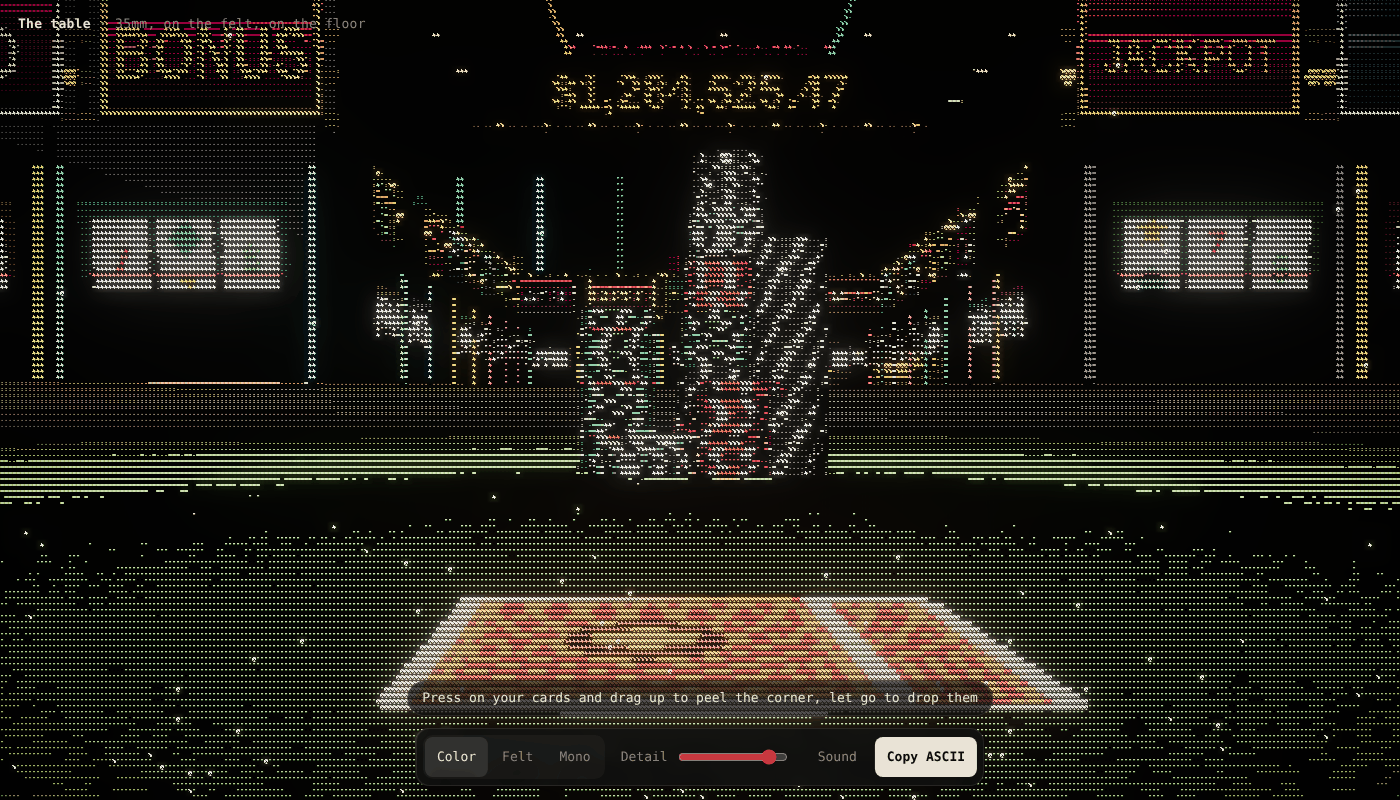
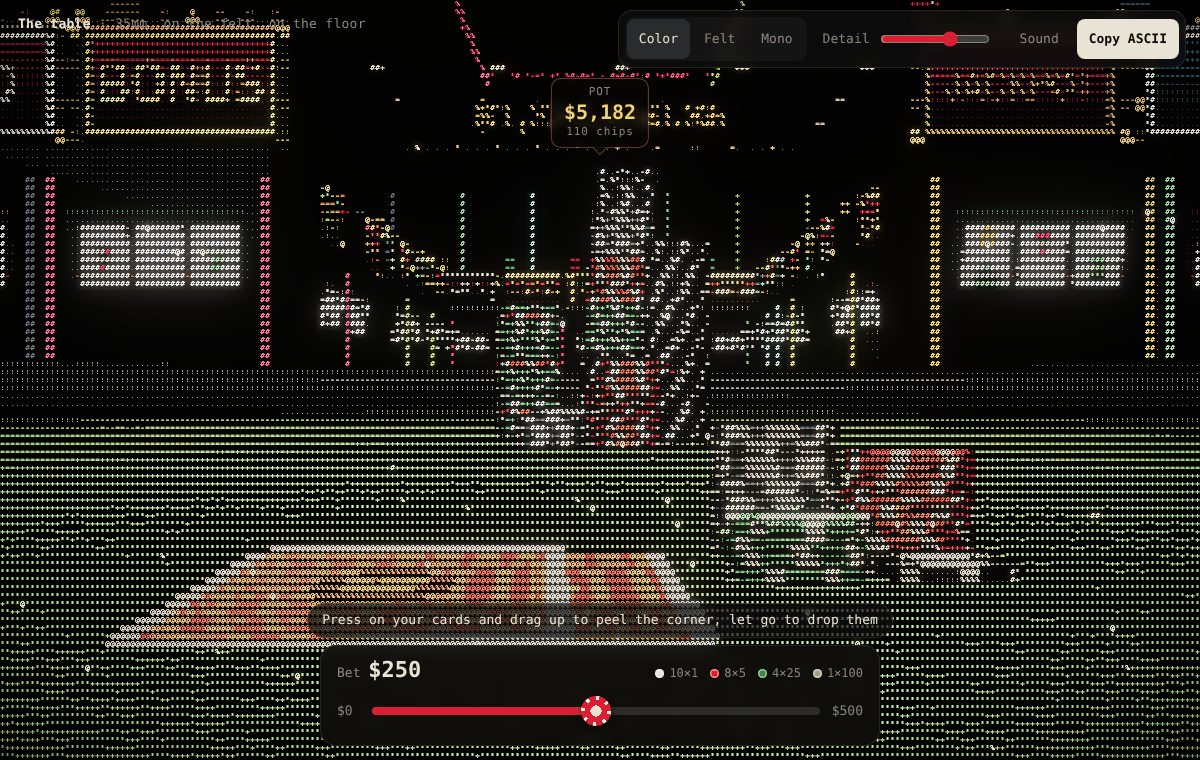
Add pot total and $500 bet slider to the ASCII table
- Pot label over the chips, summed from the chips on the felt
- $500 stack (20 white, 16 red, 8 green, 2 black) beside your cards
  that rebuilds with exact chips as the bet slider moves
- Bet slider at bottom center, $0 to $500, chip-shaped thumb
- README and prompt log updated

Claude-Session: https://claude.ai/code/session_01MVPZKeE2c6NNvpPwPLo1Bg

diff --git a/ascii-table/index.html b/ascii-table/index.html
@@ -15,11 +15,11 @@
 *{box-sizing:border-box;min-width:0}
 html,body{margin:0;height:100%;background:#0a0a0a;color:var(--ink);overflow:hidden;font:500 13px/1.3 "JetBrains Mono",ui-monospace,monospace}
 canvas{display:block;width:100%;height:100%;touch-action:none}
-#hint{position:fixed;left:50%;bottom:calc(max(14px,env(safe-area-inset-bottom)) + 70px);transform:translateX(-50%);padding:8px 14px;border-radius:999px;border:1px solid var(--line);background:rgba(14,14,14,.7);color:var(--ink);white-space:nowrap;pointer-events:none;transition:opacity 1.2s}
+#hint{position:fixed;left:50%;bottom:calc(max(14px,env(safe-area-inset-bottom)) + 108px);transform:translateX(-50%);padding:8px 14px;border-radius:999px;border:1px solid var(--line);background:rgba(14,14,14,.7);color:var(--ink);white-space:nowrap;pointer-events:none;transition:opacity 1.2s}
 #hint.hide{opacity:0}
 .tag{position:fixed;top:16px;left:18px;color:var(--dim);letter-spacing:.02em;pointer-events:none}
 .tag b{color:var(--ink);font-weight:700}
-.bar{position:fixed;left:50%;bottom:max(14px,env(safe-area-inset-bottom));transform:translateX(-50%);display:flex;flex-wrap:wrap;justify-content:center;align-items:center;gap:6px;
+.bar{position:fixed;right:14px;top:10px;display:flex;flex-wrap:wrap;justify-content:center;align-items:center;gap:6px;
   width:max-content;max-width:calc(100% - 20px);padding:6px;border:1px solid var(--line);border-radius:14px;background:rgba(14,14,14,.82);backdrop-filter:blur(8px);-webkit-backdrop-filter:blur(8px)}
 .seg{display:flex;flex-wrap:wrap;gap:2px;padding:2px;border-radius:10px;background:rgba(255,255,255,.04)}
 button{font:inherit;color:var(--dim);background:none;border:0;border-radius:8px;min-height:40px;padding:0 12px;cursor:pointer}
@@ -33,7 +33,31 @@ input[type=range]{width:110px;accent-color:var(--acc)}
 #toast{position:fixed;left:50%;top:16px;transform:translate(-50%,-8px);opacity:0;transition:.25s;padding:8px 14px;border-radius:999px;background:var(--ink);color:#0a0a0a;font-weight:700;pointer-events:none}
 #toast.on{opacity:1;transform:translate(-50%,0)}
 .err{position:fixed;inset:0;display:none;place-items:center;color:var(--dim);font:16px system-ui,sans-serif;text-align:center;padding:24px}
-@media (max-width:600px){.tag{display:none}input[type=range]{width:84px}button{padding:0 9px}}
+/* pot label: floats over the pot */
+#pot{position:fixed;left:0;top:0;pointer-events:none;text-align:center;padding:6px 12px 7px;border-radius:10px;border:1px solid rgba(255,210,63,.35);
+  background:rgba(8,6,4,.72);backdrop-filter:blur(4px);-webkit-backdrop-filter:blur(4px);white-space:nowrap}
+#pot::after{content:"";position:absolute;left:50%;bottom:-6px;width:10px;height:10px;transform:translateX(-50%) rotate(45deg);background:rgba(8,6,4,.72);border-right:1px solid rgba(255,210,63,.35);border-bottom:1px solid rgba(255,210,63,.35)}
+#pot small{display:block;color:var(--dim);font-size:11px;letter-spacing:.08em}
+#potAmt{display:block;color:#ffd23f;font-size:20px;font-weight:700;font-variant-numeric:tabular-nums}
+/* bet panel: bottom middle, the stack on the felt follows it */
+.betp{position:fixed;left:50%;bottom:max(14px,env(safe-area-inset-bottom));transform:translateX(-50%);width:min(560px,calc(100% - 24px));
+  padding:10px 16px 12px;border:1px solid var(--line);border-radius:16px;background:rgba(10,8,6,.8);backdrop-filter:blur(8px);-webkit-backdrop-filter:blur(8px)}
+.betp .top{display:flex;justify-content:space-between;align-items:baseline;gap:12px;margin-bottom:4px}
+.betp .lbl{color:var(--dim)}
+#betAmt{font-size:22px;font-weight:700;color:var(--ink);font-variant-numeric:tabular-nums}
+#betBreak{display:flex;flex-wrap:wrap;gap:4px 12px;justify-content:flex-end;color:var(--dim);font-size:12px}
+#betBreak i{display:inline-block;width:9px;height:9px;border-radius:50%;margin-right:5px;vertical-align:-1px;box-shadow:0 0 0 1.5px rgba(255,255,255,.5) inset}
+.rng{display:flex;align-items:center;gap:12px}
+.rng span{color:var(--dim);font-variant-numeric:tabular-nums;min-width:3ch}
+#bet{flex:1;-webkit-appearance:none;appearance:none;height:44px;background:transparent;margin:0;width:100%;accent-color:#d81e2a}
+#bet::-webkit-slider-runnable-track{height:8px;border-radius:99px;background:linear-gradient(90deg,#d81e2a var(--fill,0%),rgba(255,255,255,.12) var(--fill,0%))}
+#bet::-moz-range-track{height:8px;border-radius:99px;background:linear-gradient(90deg,#d81e2a var(--fill,0%),rgba(255,255,255,.12) var(--fill,0%))}
+#bet::-webkit-slider-thumb{-webkit-appearance:none;width:30px;height:30px;margin-top:-11px;border-radius:50%;cursor:grab;border:0;
+  background:radial-gradient(circle,#f3e6d6 0 26%,#d81e2a 27% 52%,transparent 53%),repeating-conic-gradient(#f4efe4 0 14deg,#d81e2a 14deg 45deg);box-shadow:0 2px 8px rgba(0,0,0,.6)}
+#bet::-moz-range-thumb{width:30px;height:30px;border-radius:50%;cursor:grab;border:0;
+  background:radial-gradient(circle,#f3e6d6 0 26%,#d81e2a 27% 52%,transparent 53%),repeating-conic-gradient(#f4efe4 0 14deg,#d81e2a 14deg 45deg);box-shadow:0 2px 8px rgba(0,0,0,.6)}
+#bet:focus-visible{outline:none}#bet:focus-visible::-webkit-slider-thumb{outline:2px solid #ffd23f;outline-offset:2px}
+@media (max-width:600px){.tag{display:none}#betAmt{font-size:19px}input[type=range]{width:84px}button{padding:0 9px}}
 </style>
 <script type="importmap">{"imports":{"three":"https://cdn.jsdelivr.net/npm/three@0.160.0/build/three.module.js","three/addons/":"https://cdn.jsdelivr.net/npm/three@0.160.0/examples/jsm/"}}</script>
 </head>
@@ -42,6 +66,11 @@ input[type=range]{width:110px;accent-color:var(--acc)}
 <div id="toast" role="status" aria-live="polite"></div>
 <div id="hint">Press on your cards and drag up to peel the corner, let go to drop them</div>
 <div class="err" id="err">Couldn't load the renderer. Reload to try again.</div>
+<div id="pot" aria-live="polite"><small>POT</small><span id="potAmt">$0</span><small id="potChips"></small></div>
+<div class="betp">
+  <div class="top"><div><span class="lbl">Bet </span><span id="betAmt">$0</span></div><div id="betBreak"></div></div>
+  <div class="rng"><span>$0</span><input id="bet" type="range" min="0" max="500" step="1" value="250" aria-label="Bet size"><span>$500</span></div>
+</div>
 <div class="bar">
   <div class="seg" role="group" aria-label="Palette">
     <button data-pal="0" aria-pressed="true">Color</button>
@@ -333,7 +362,7 @@ function gridGeo() {
 }
 const pair = new THREE.Group(), seat = new THREE.Group();
 seat.rotation.y = VIEW_YAW; scene.add(seat);
-pair.position.set(0, 0.0012, PAIR_Z); pair.rotation.y = 0.05; seat.add(pair);
+pair.position.set(-0.12, 0.0012, PAIR_Z); pair.rotation.y = 0.05; seat.add(pair);
 // bottom card first: the King lies on the felt, the Ace rests on top of it, shifted left
 const cards = [[kingTex, OFFSET / 2, 0], [aceTex, -OFFSET / 2, 1]].map(([face, x, layer]) => {
   const geo = gridGeo(), mesh = new THREE.Mesh(geo, [backPeel, peelMat(face)]);
@@ -616,6 +645,127 @@ audio.jackpot = pos => {
   [0, 2, 4, 5, 7].forEach((n, i) => tone(PENTA[n], now + 0.1 + i * 0.12, 0.35, 'square', 0.02, pan));                                   // fanfare
 };
 
+/* ---------- chip values, the pot total, and your $500 bet stack ---------- */
+const DENOM = [1, 5, 25, 100];                       // CHIPS order: white, red, green, black
+const potChips = lists.map(l => l.length);
+const potValue = potChips.reduce((a, n, ci) => a + n * DENOM[ci], 0);
+
+// Your $500: 20 white ($20) + 16 red ($80) + 8 green ($200) + 2 black ($200) = 46 chips
+const INV = [20, 16, 8, 2];
+const INV_TOTAL = INV.reduce((a, n, ci) => a + n * DENOM[ci], 0);
+const INV_CHIPS = INV.reduce((a, n) => a + n, 0);
+// Exact chips for every bet from $0 to $500, worked out once. The chip count follows the bet,
+// so a bigger bet is a taller stack, staying close to a straight line from 0 to 46 chips. A few small dips are
+// unavoidable (with 20 whites, $20 can be 20 chips but $21 can't be more than 17), so it keeps those as rare and small as it can.
+const BET_TABLE = (() => {
+  const combos = [];                                    // every way to make each amount from the $500 inventory
+  for (let b = 0; b <= INV_TOTAL; b++) combos.push([]);
+  for (let k = 0; k <= INV[3]; k++) for (let g = 0; g <= INV[2]; g++) for (let r = 0; r <= INV[1]; r++) for (let w = 0; w <= INV[0]; w++)
+    combos[w + 5 * r + 25 * g + 100 * k].push([w, r, g, k]);
+  const N = INV_CHIPS + 1, INF = 1e9, B = INV_TOTAL;
+  const has = combos.map(cs => { const h = new Uint8Array(N); cs.forEach(c => h[c[0] + c[1] + c[2] + c[3]] = 1); return h; });
+  // dp[b][n]: lowest cost for amounts 0..b ending with n chips at b. Cost = distance from the straight line,
+  // plus a heavy charge for every chip the stack loses when the bet goes up by a dollar.
+  const DROP = 6;
+  const dp = Array.from({ length: B + 1 }, () => new Float64Array(N).fill(INF)), from = Array.from({ length: B + 1 }, () => new Int16Array(N));
+  dp[0][0] = 0;
+  for (let b = 1; b <= B; b++) for (let n = 0; n < N; n++) {
+    if (!has[b][n]) continue;
+    let best = INF, arg = 0;
+    for (let m = 0; m < N; m++) {
+      const c = dp[b - 1][m] + (m > n ? (m - n) * DROP : 0);
+      if (c < best) { best = c; arg = m; }
+    }
+    dp[b][n] = best + Math.abs(n - INV_CHIPS * b / B); from[b][n] = arg;
+  }
+  const counts = new Int16Array(B + 1); counts[B] = INV_CHIPS;
+  for (let b = B; b > 0; b--) counts[b - 1] = from[b][counts[b]];
+  // for each amount, use the mix closest to the one just below it, so stepping $1 changes as few chips as possible
+  const table = [[0, 0, 0, 0]];
+  for (let b = 1; b <= B; b++) {
+    const prev = table[b - 1]; let pick = null, d0 = Infinity;
+    for (const c of combos[b]) {
+      if (c[0] + c[1] + c[2] + c[3] !== counts[b]) continue;
+      const d = c.reduce((a, v, i) => a + Math.abs(v - prev[i]), 0);
+      if (d < d0) { d0 = d; pick = c; }
+    }
+    table.push(pick);
+  }
+  return table;
+})();
+let betCounts = [0, 0, 0, 0];
+const chipsFor = b => BET_TABLE[b];
+
+// 2x2 cluster right beside your cards, on your side of the table, just above the slider on screen.
+// Tall columns at the back so the short ones never hide them from the lens.
+const BET_AT = new V3(0.21, 0, 1.86), BET_SCALE = 0.7;   // drawn a bit small: this close to a lens on the felt, full size towers over the shot
+const COLS = { 0: [-0.084, -0.085], 1: [0.084, -0.085], 2: [-0.084, 0.085], 3: [0.084, 0.085] };   // white, red back; green, black front
+const betGroup = new THREE.Group(); betGroup.position.copy(BET_AT); betGroup.scale.setScalar(BET_SCALE); seat.add(betGroup);
+const slots = DENOM.map((_, ci) => {
+  const im = new THREE.InstancedMesh(chipGeo, chipMats[ci], INV[ci]);
+  im.castShadow = im.receiveShadow = true; im.count = INV[ci]; betGroup.add(im);
+  const spin = Array.from({ length: INV[ci] }, () => R(0, TAU)), jit = Array.from({ length: INV[ci] }, () => [R(-1, 1) * 0.004, R(-1, 1) * 0.004]);
+  return { im, spin, jit, s: Array.from({ length: INV[ci] }, () => ({ on: false, a: 0, delay: 0 })) };
+});
+function setBet(b) {
+  const next = chipsFor(b);
+  next.forEach((n, ci) => {
+    const sl = slots[ci].s, had = betCounts[ci];
+    for (let i = 0; i < sl.length; i++) {
+      const on = i < n;
+      if (on && !sl[i].on) sl[i].delay = (i - had) * 0.03;            // new chips drop in one after another, bottom up
+      if (!on && sl[i].on) sl[i].delay = (had - 1 - i) * 0.02;         // removed chips lift off from the top down
+      sl[i].on = on;
+    }
+  });
+  betCounts = next;
+}
+const _bm = new THREE.Matrix4(), _bq = new THREE.Quaternion(), _bp = new V3(), _bs = new V3(), UPY = new V3(0, 1, 0);
+function updateBetChips(dt) {
+  slots.forEach((slot, ci) => {
+    const [cx, cz] = COLS[ci];
+    slot.s.forEach((st, i) => {
+      if (st.delay > 0) { st.delay -= dt; }
+      else {
+        const before = st.a;
+        st.a = THREE.MathUtils.clamp(st.a + (st.on ? 1 : -1) * dt * 7, 0, 1);
+        if (st.on && before < 1 && st.a === 1 && audio.on && audio.ctx) tone(R(2900, 3500), audio.ctx.currentTime, 0.06, 'sine', 0.025, 0.25);   // click as it lands
+      }
+      const a = st.a;
+      // landing: falls from above, speeding up; leaving: lifts and shrinks away
+      const lift = st.on ? 0.14 * (1 - a * a) : 0.06 * (1 - a);
+      const sc = a <= 0.001 ? 0.0001 : st.on ? Math.min(1, a * 4) : a;
+      _bp.set(cx + slot.jit[i][0], CT * (i + 0.5) + 0.0003 + lift, cz + slot.jit[i][1]);
+      _bq.setFromAxisAngle(UPY, slot.spin[i]); _bs.setScalar(sc);
+      slot.im.setMatrixAt(i, _bm.compose(_bp, _bq, _bs));
+    });
+    slot.im.instanceMatrix.needsUpdate = true;
+  });
+}
+
+/* ---------- the pot label and the bet slider ---------- */
+const fmt = v => '$' + v.toLocaleString('en-US');
+const potEl = document.getElementById('pot'), betEl = document.getElementById('betAmt'), betBreak = document.getElementById('betBreak');
+const slider = document.getElementById('bet');
+document.getElementById('potAmt').textContent = fmt(potValue);
+document.getElementById('potChips').textContent = potChips.reduce((a, n) => a + n, 0) + ' chips';
+let potTopY = 0; for (const l of lists) for (const m of l) potTopY = Math.max(potTopY, new V3().setFromMatrixPosition(m).y);
+const potAnchor = new V3(0, potTopY + CT * 3, 0), _pa = new V3();
+function placePot() {
+  _pa.copy(potAnchor).project(camera);
+  potEl.style.transform = `translate(${(_pa.x * 0.5 + 0.5) * innerWidth}px, ${(-_pa.y * 0.5 + 0.5) * innerHeight}px) translate(-50%, -100%)`;
+}
+const CHIP_HEX = ['#ece7da', '#d81e2a', '#14a557', '#9a9a9a'];
+function onBet() {
+  const b = +slider.value;
+  slider.style.setProperty('--fill', (b / INV_TOTAL * 100) + '%');
+  slider.setAttribute('aria-valuetext', fmt(b));
+  betEl.textContent = fmt(b);
+  setBet(b);
+  betBreak.innerHTML = betCounts.map((n, ci) => n ? `<span><i style="background:${CHIP_HEX[ci]}"></i>${n}&times;${DENOM[ci]}</span>` : '').join('') || '<span>No chips out</span>';
+}
+slider.max = INV_TOTAL; slider.addEventListener('input', onBet); onBet();
+
 /* ---------- glyph atlas + ASCII pass (same pipeline as the card and chip assets) ---------- */
 const CHARS = ' .:-=+*#%@';
 try { await document.fonts.load('700 30px "JetBrains Mono"'); } catch (e) {}
@@ -710,7 +860,7 @@ canvas.addEventListener('pointermove', e => {
 // letting go drops the cards back flat on the felt
 const release = () => { if (!peelDrag) return; peelDrag = null; peelState.target = 0; canvas.style.cursor = hovering ? 'grab' : 'default'; };
 canvas.addEventListener('pointerup', release); canvas.addEventListener('pointercancel', release);
-addEventListener('keydown', e => { if (e.key === 'ArrowUp') { e.preventDefault(); keyHeld = true; peelState.side = -1; } });
+addEventListener('keydown', e => { if (e.key === 'ArrowUp' && e.target.tagName !== 'INPUT') { e.preventDefault(); keyHeld = true; peelState.side = -1; } });
 addEventListener('keyup', e => { if (e.key === 'ArrowUp') { keyHeld = false; peelState.target = 0; } });
 function updatePeel(dt) {
   const st = peelState;
@@ -770,7 +920,7 @@ soundBtn.addEventListener('click', () => {
 });
 renderer.setAnimationLoop(() => {
   const dt = Math.min(clock.getDelta(), 0.05);
-  updatePeel(dt); updateCasino(clock.elapsedTime, dt);
+  updatePeel(dt); updateCasino(clock.elapsedTime, dt); updateBetChips(dt); placePot();
   ascii.uniforms.time.value = clock.elapsedTime;
   composer.render();
 });

diff --git a/README.md b/README.md
@@ -8,6 +8,7 @@ A browser poker scene built in three.js and rendered as ASCII art. You're sittin
 
 - **Peek at your hand.** Press on your cards and drag up. Both cards bend together around one corner fold, like a real peek: you see the A, the K and the spades, and the rest of the face stays on the felt. Let go and they drop back flat with a little bounce.
 - **A locked 35mm shot.** The camera rests level on the felt at the edge of the table, looking across five graduated chip stacks at the center.
+- **Pot and bet sizing.** A gold label over the pot adds up the chips actually on the felt (white $1, red $5, green $25, black $100). A bet slider at the bottom ($0 to $500) builds your bet out of real chips: they drop onto your stack beside your cards as you slide up and lift off as you slide down.
 - **A live casino behind you.** About 50 slot machines with spinning reels, chasing marquee bulbs and topper signs. Every few seconds one hits a jackpot and strobes. A progressive jackpot sign keeps counting up at the end of the aisle. No people anywhere.
 - **Optional sound.** Synthesized in the browser, no audio files: room hum, slot chimes, reel ticks, coin clinks, and a bell and fanfare panned to whichever machine hits.
 - **Copy ASCII.** Copies the current frame as plain text.
@@ -50,6 +51,7 @@ python3 -m http.server 8000
 ## Ideas for what's next
 
 - Play the hand out: an automatic shuffler deals the flop, turn and river, and you squeeze the river with the same peel physics.
+- Wire up the bet button so the slider's chips slide into the pot and the pot label counts up.
 - Push your chips in with a drag, and an ASCII win moment where the character set swaps to `$ 7 * @` and chips rain down.
 - Printed felt (betting line, seat numbers, a center emblem), a lit limit sign, a drink in the rail.
 - Casino carpet, eye-in-the-sky ceiling domes, a roulette wheel spinning by itself and a haze layer.

diff --git a/PROMPTS.md b/PROMPTS.md
@@ -90,6 +90,13 @@ The revised prompt described every object, the lighting and the background signs
 - A screenshot of my own scene attached as a layout reference, labeled "layout only, don't copy the ASCII style."
 - Small fixes as edits on the last image, not new prompts.
 
+## 12. Pot size and a bet slider
+
+> Let's add a visual indicator of what the pot size is currently using actual chip values as the metric... give me $500 in chips spread across different denominations and attach a slider that lets you edit your bet size. Have the slider be in the bottom middle of the screen with both minimum and maximum boundaries listed "$0-500" and have my chip stack become one with the slider and react to each adjustment... Let's wait on the actual "bet" function until we know this function is dialed in completely.
+
+**Result:** a pot label computed from the chips on the felt ($5,182), and a $500 stack (20 white, 16 red, 8 green, 2 black) that rebuilds itself with exact chips for every dollar on the slider.
+**Lesson:** "bigger as it gets closer to $500" sounds simple, but chip math fights it: $100 is one black chip and $95 is seven. Saying how it should behave pushed toward a lookup of every amount from $0 to $500, picked so the stack grows with the bet and never drops more than 3 chips (whites trading for a red, like making change). Holding back the bet button kept this step small enough to get right.
+
 ## Takeaways
 
 - Put numbers on everything: chip counts, lens focal length, distances, how much of the frame something fills.
